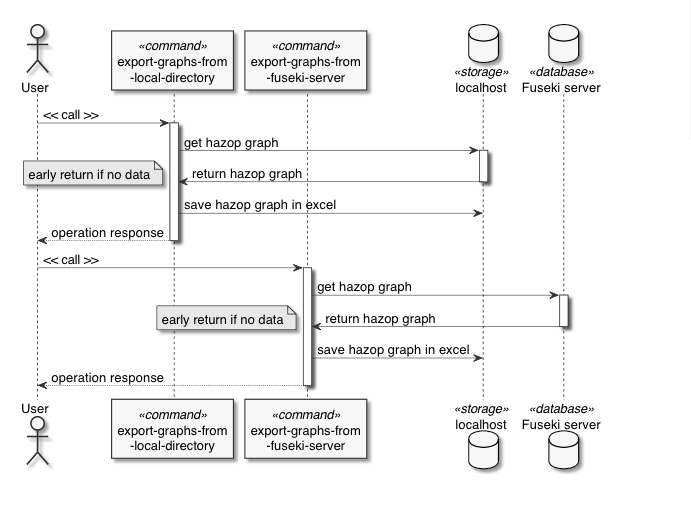
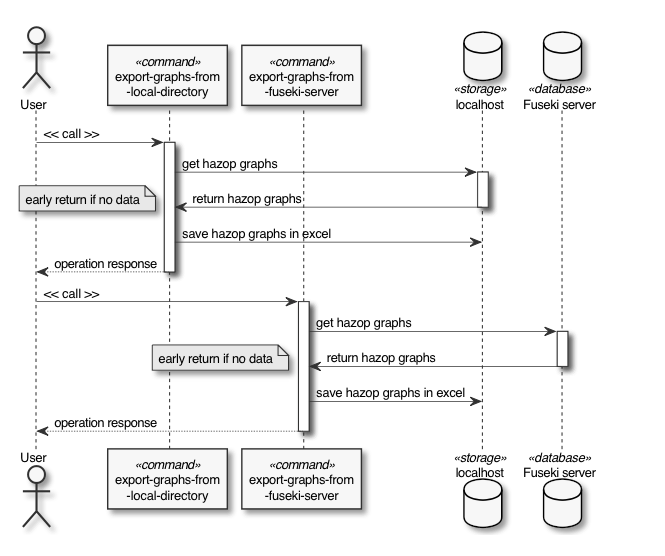
Docs: sequence diagrams update

diff --git a/docs/implementation.md b/docs/implementation.md
@@ -141,14 +141,14 @@ database "Fuseki server" as Fuseki << database >>
 User -> ExportFromStorage: << call >>
 activate ExportFromStorage
 
-ExportFromStorage -> Localhost: get hazop graph
+ExportFromStorage -> Localhost: get hazop graphs
 activate Localhost
 
-Localhost -> ExportFromStorage: return hazop graph
+Localhost -> ExportFromStorage: return hazop graphs
 note left: early return if no data
 deactivate Localhost
 
-ExportFromStorage -> Localhost: save hazop graph in excel
+ExportFromStorage -> Localhost: save hazop graphs in excel
 ExportFromStorage --> User: operation response
 deactivate ExportFromStorage
 
@@ -156,14 +156,14 @@ deactivate ExportFromStorage
 User -> ExportFromFuseki: << call >>
 activate ExportFromFuseki
 
-ExportFromFuseki -> Fuseki: get hazop graph
+ExportFromFuseki -> Fuseki: get hazop graphs
 activate Fuseki
 
-Fuseki -> ExportFromFuseki: return hazop graph
+Fuseki -> ExportFromFuseki: return hazop graphs
 note left: early return if no data
 deactivate Fuseki
 
-ExportFromFuseki -> Localhost: save hazop graph in excel
+ExportFromFuseki -> Localhost: save hazop graphs in excel
 ExportFromFuseki --> User: operation response
 deactivate ExportFromFuseki
 ```
